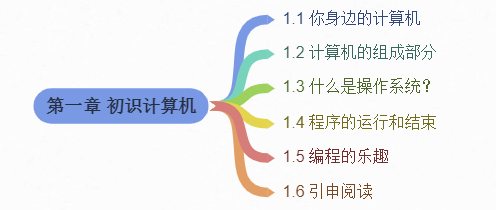
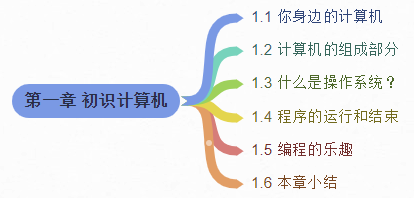
更新1.6节

Changed region(s): [[0.029, 0.0303, 0.9565, 0.9697], [0.087, 0.3939, 0.3768, 0.4242]]

diff --git a/zh/01.6.md b/zh/01.6.md
@@ -1,4 +1,37 @@
-# 1.6 引申阅读（未完成）
+# 1.6 本章小结
+
+本章没有介绍具体的编程语言，目的是先为完全无基础的读者介绍一些基本知识。我们首先梳理了身边常见的计算机：
+
+- 台式机
+- 笔记本电脑
+- 手机
+- 平板
+- ...
+
+然后介绍了计算的组成部分：
+
+- 机箱（用于固定各个部件）
+- 电源（提供电力）
+- 主板（连接计算机内部和外部的所有部件和设备）
+- CPU（计算机的核心部件，用于进行数学和逻辑运算）
+- 内存（计算机工作时的临时存储区域，断电即清空）
+- 硬盘（计算机中的永久存储区域，断电也不会清空）
+- GPU（用于图形计算的部件，分担CPU的工作量）
+
+接着我们认识了各种各样的操作系统：
+
+- Windows（主要用于桌面电脑、笔记本、平板，是最流行的操作系统）
+- Android（主要用于手机）
+- iOS（主要用于iPhone和iPad）
+- Mac OS X（主要用于苹果电脑）
+- Linux（主要用于服务器等设备）
+
+最后介绍了程序是什么，是怎么运行和结束的：
+
+- 程序是一堆指令的有限集合，程序也是一种文件，存储在硬盘当中
+- 程序在运行的时候首先会被操作系统复制到内存中，然后程序中的指令会被一条条送到CPU中执行
+
+希望你也能体会编程的乐趣~
 
 ## 链接
 

diff --git a/zh/01.5.md b/zh/01.5.md
@@ -1,7 +1,17 @@
-# 1.5 编程的乐趣（未完成）
+# 1.5 编程的乐趣
+
+大家能够看到这里，想必对编程是充满了极大兴趣的。 那么编程到底有趣在哪些地方呢？ 每个人都有自己不同的答案，我认为：
+
+- 写程序解决工作中遇到的问题，会使我感到很高兴很充实
+- 如果我写的程序帮助到了其他人，那么我也会感到很高兴
+- 我可以编写自己喜欢的软件，编写自己喜欢的功能
+
+简单来说，编程能够满足人的创造欲和帮助欲，我们能从纯粹的创造过程和帮助他人的过程中能够得到非常多的快乐。
+
+我们从几行代码开始，到最后完成整个软件。就像我们亲自把零件一个一个地组装在一起，最后按预期实现了精妙的功能，这个过程总是散发着一种有趣的魅力~
 
 ## 链接
 
 - [目录](./preface.md)
 - 上一节：[程序的运行和结束](./01.4.md)
-- 下一节：[引申阅读](./01.6.md)
+- 下一节：[本章小结](./01.6.md)

diff --git a/zh/preface.md b/zh/preface.md
@@ -6,4 +6,4 @@
   - 1.3 [什么是操作系统？](01.3.md)
   - 1.4 [程序的运行和结束](01.4.md)
   - 1.5 [编程的乐趣](01.5.md)
-  - 1.6 [引申阅读](01.6.md)
+  - 1.6 [本章小结](01.6.md)
